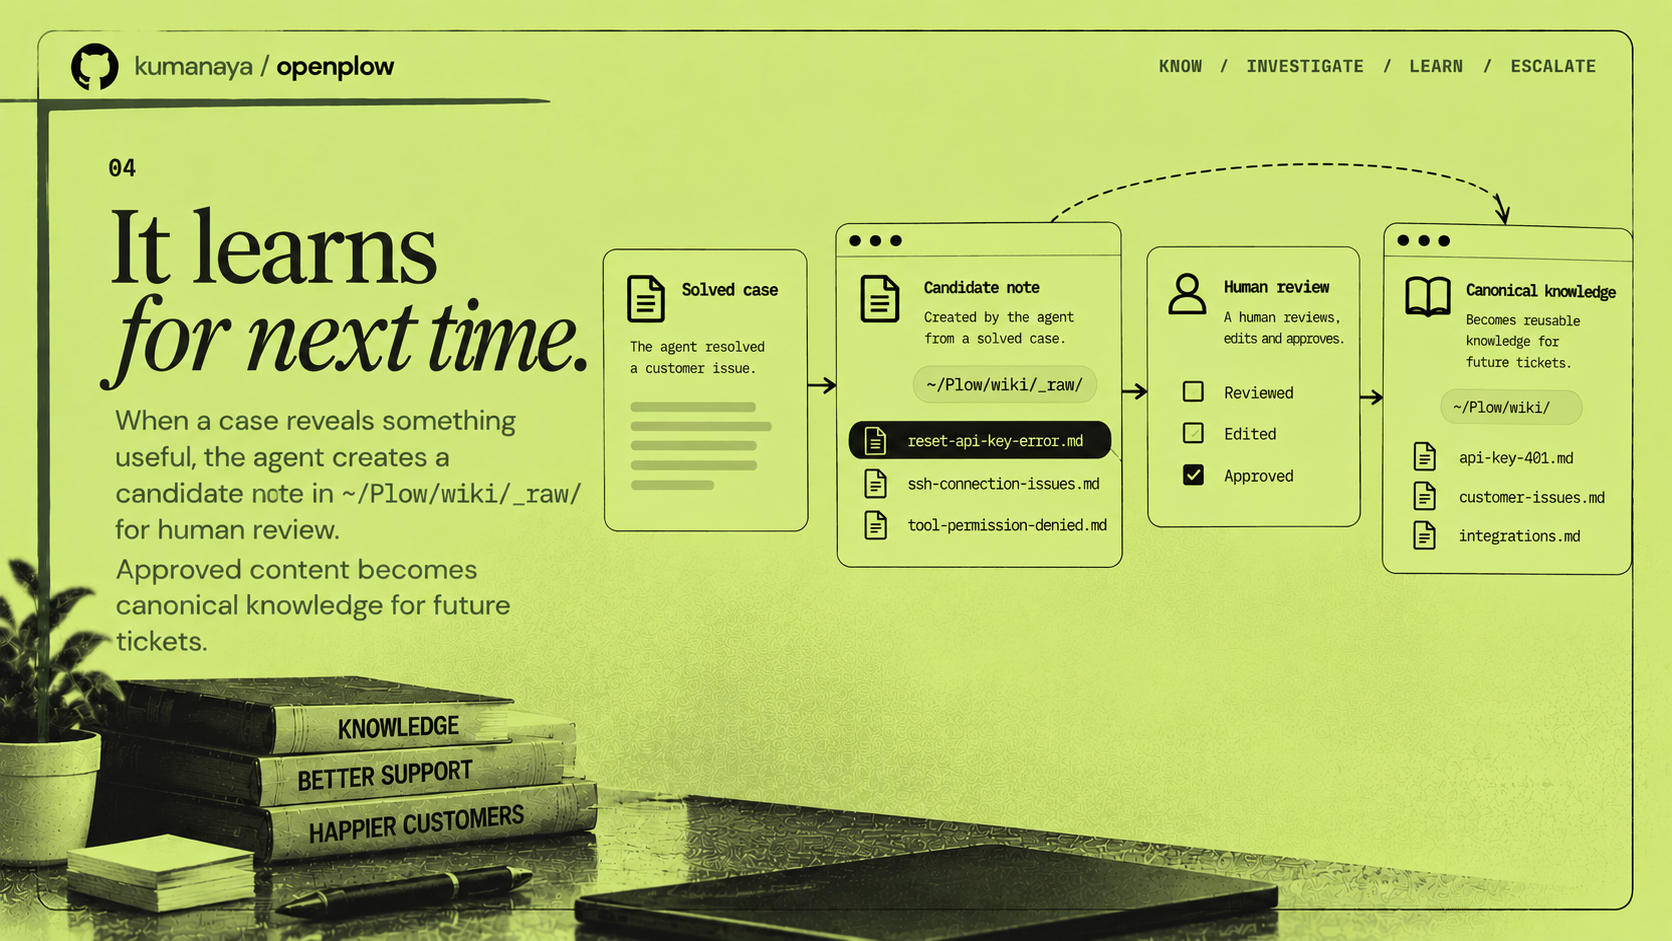
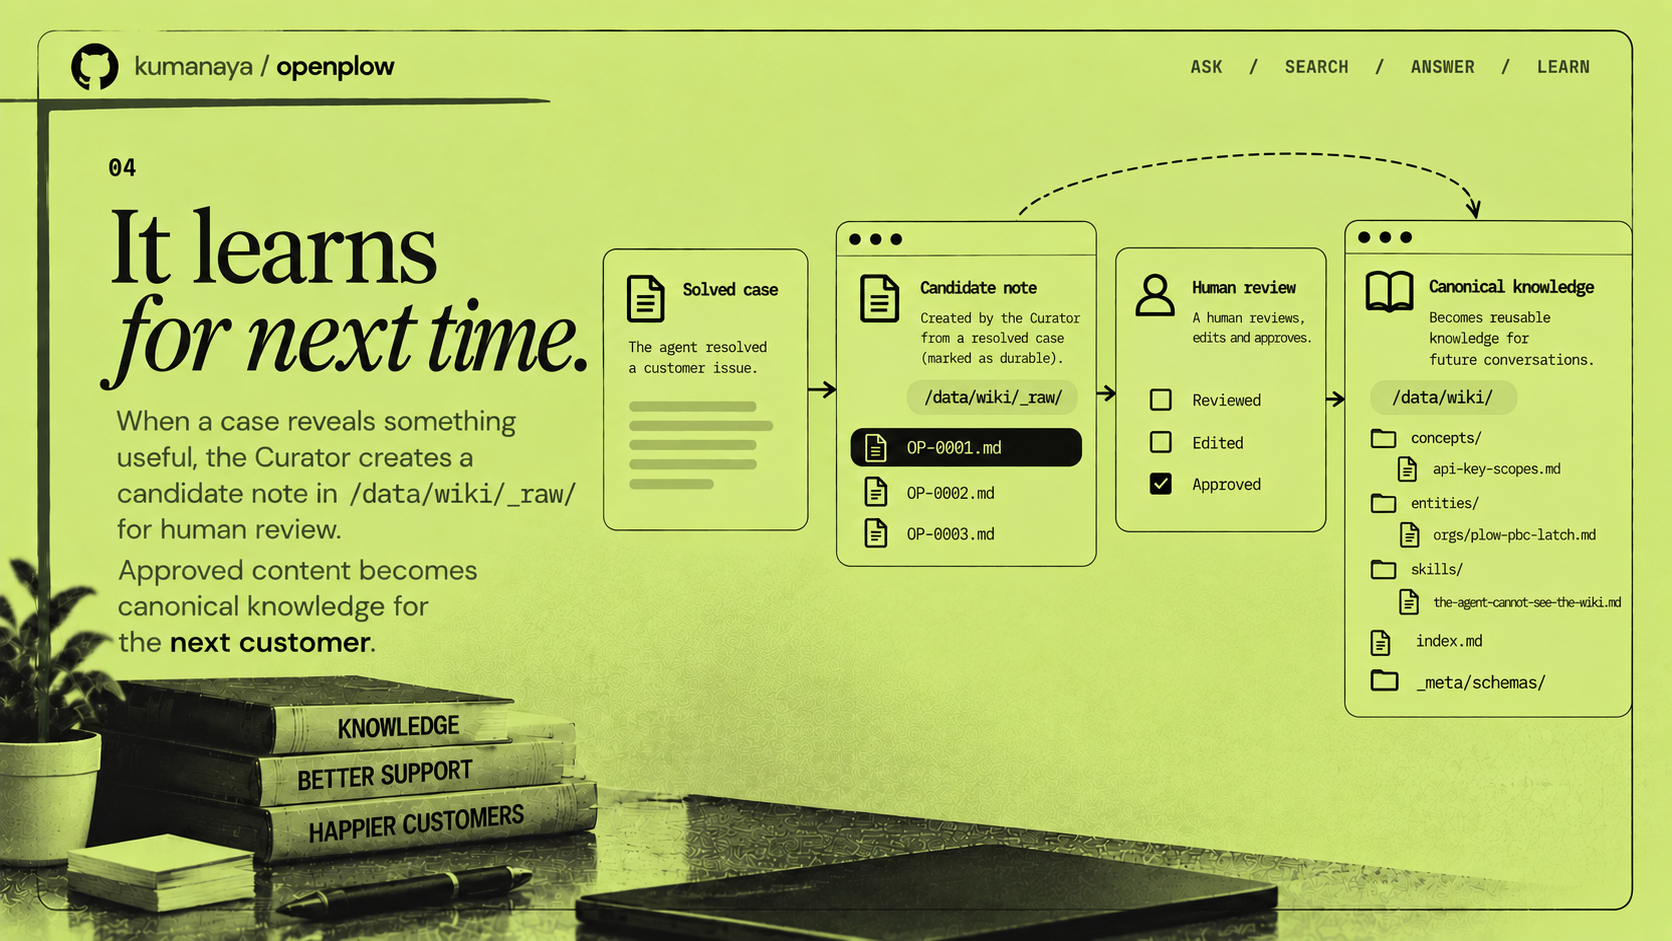
fix(docs): correct the learning panel to match the implementation
Panel 04 asserted three things the code does not do, and the README repeated
two of them.

The candidate inbox was drawn as ~/Plow/wiki/_raw/. That is the Latch
auto-approve carve-out on the operator's Mac, not the vault. The Curator
writes to $WIKI_PATH/_raw — /data/wiki/_raw, a Docker volume mounted at /data
— and the canonical pages live at /data/wiki beside it. Both chips and the
prose now show the deployment path.

The candidates were named descriptively (reset-api-key-error.md,
ssh-connection-issues.md). The Curator does not choose a filename: the path is
derived from the case ID, so a case writes OP-0001.md and the readable title
lives in the frontmatter. A descriptive name would also collide between
cases.

The panel closed on "reusable knowledge for future tickets". The project has
no ticketing integration and says so in three places, so it now reads "the
next customer".

Two details fixed while regenerating: the canonical box now shows the real
vault layout (concepts/, entities/orgs/, skills/, index.md, _meta/schemas/)
rather than flat files at the root, and the candidate is attributed to the
Curator staging a durable outcome from a resolved case, which is what
prepareCandidate actually requires.

README: drop the blockquote that corrected the path, and make the panel 04
caption state the case-ID naming and the real inbox.
assets/README.md: record what the panel used to claim, and note that the
[…]

diff --git a/assets/README.md b/assets/README.md
@@ -22,12 +22,19 @@ says so.
 - **02** wiki-first, internal handoff on a gap, and explicitly *not*
   investigating the customer's device or systems
 - **03** a receipt on every factual answer
-- **04** a candidate staged in the vault's `_raw/` inbox for human review
+- **04** the Curator stages `OP-<caseId>.md` in `/data/wiki/_raw/` for human
+  review; approved content becomes canonical knowledge for the next customer
 
-One inaccuracy remains in `04.png`: it labels the inbox `~/Plow/wiki/_raw/`. The
-deployment path is `$WIKI_PATH/_raw` — `/data/wiki/_raw`, a Docker volume.
-`~/Plow` is the Latch auto-approve carve-out on the operator's Mac and is
-unrelated. The panel needs regenerating; the README notes the correction.
+Panel 04 was regenerated to match the implementation. It previously showed the
+inbox as `~/Plow/wiki/_raw/` — the Latch auto-approve carve-out on the
+operator's Mac, not the vault — named the candidates descriptively instead of
+by case ID, and claimed reusable knowledge for "future tickets", which the
+project does not support.
+
+The top navigation bar is inconsistent across the set: `04.png` reads
+`ASK / SEARCH / ANSWER / LEARN`, while `01`–`03` still read
+`KNOW / INVESTIGATE / LEARN / ESCALATE`. Only the navigation needs
+regenerating on those three; their content is accurate.
 
 ## Explainer video
 

diff --git a/README.md b/README.md
@@ -49,13 +49,10 @@ wiki page or public URL the customer can open. No "trust me".
 
 [![04 — it learns for next time](assets/04.png)](assets/04.png)
 
-**04 — It learns for next time.** A useful lesson becomes a candidate note in
-the vault's `_raw/` inbox for human review. Approved content becomes canonical
-knowledge for future tickets. The agent never promotes a page itself.
-
-> Panel 04 shows the inbox as `~/Plow/wiki/_raw/`. The deployment path is
-> `$WIKI_PATH/_raw` — `/data/wiki/_raw`, a Docker volume. `~/Plow` is the
-> Latch auto-approve carve-out on the operator's Mac and is unrelated.
+**04 — It learns for next time.** The Curator writes a candidate note —
+`OP-0001.md`, named after the case, never a descriptive filename — into
+`/data/wiki/_raw/` for human review. Approved content becomes canonical
+knowledge for the next customer. The agent never promotes a page itself.
 
 ## How it works
 
